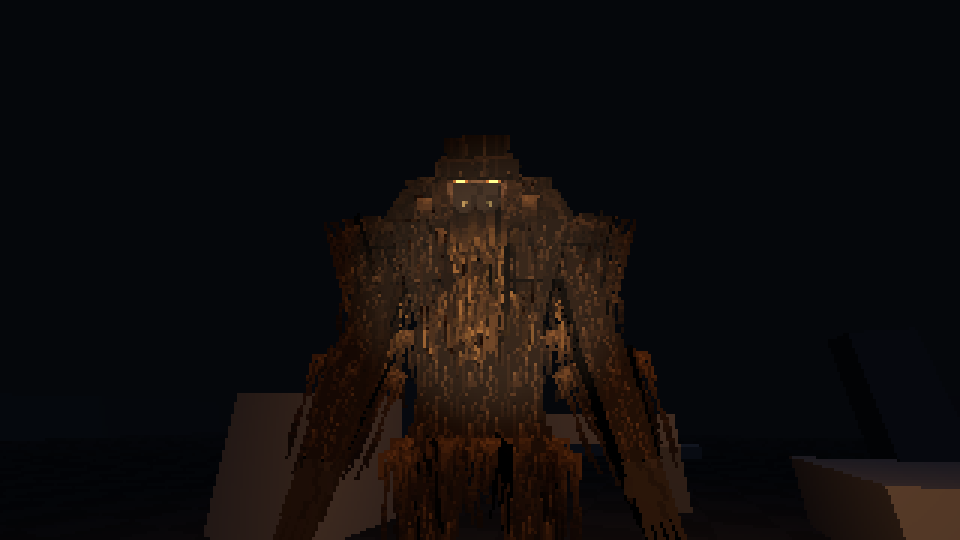
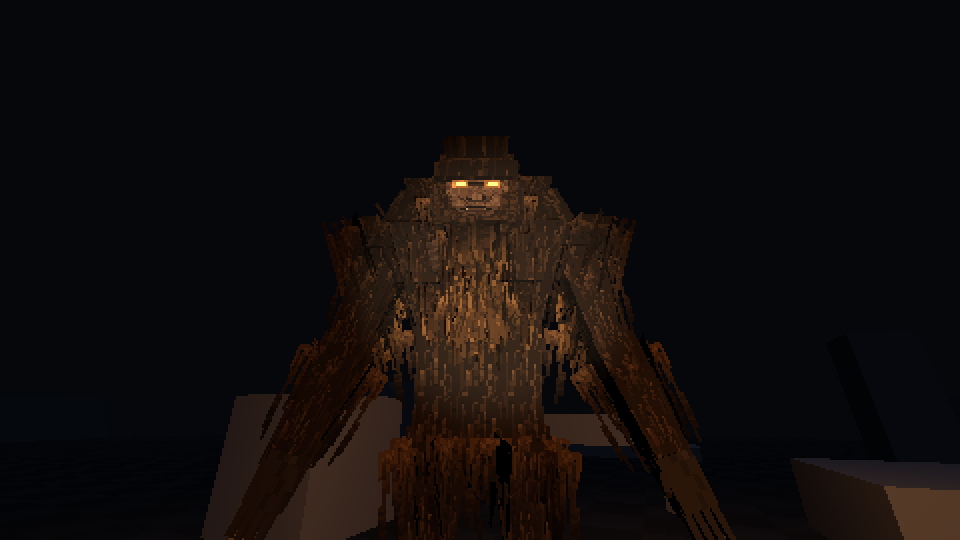
#56 Bigfoot pass 2: even bigger, more detailed, scarier (#52)
* #56 pass 2: torn ear, broken fang, rib/scar patches, matted debris, longer claws, wider jaw

Claude-Session: https://claude.ai/code/session_0163yRzHGRraga61EFxbLany

* #56 PR link

Claude-Session: https://claude.ai/code/session_0163yRzHGRraga61EFxbLany

---------

diff --git a/src/cryptids/bigfootModel.js b/src/cryptids/bigfootModel.js
@@ -1,7 +1,7 @@
 import * as THREE from 'three';
 import { mergeGeometries } from 'three/examples/jsm/utils/BufferGeometryUtils.js';
 import {
-  pixelMaterial, furTexture, skinTexture, furFringeTexture, bigfootScowlTexture, longHairTexture,
+  pixelMaterial, furTexture, skinTexture, furFringeTexture, bigfootScowlTexture, longHairTexture, ribScarTexture,
 } from '../art/pixelTex.js';
 
 // Bigfoot (final, #42): a big, hunched, menacing low-poly body (~3.4 m tall standing, shoulders
@@ -53,6 +53,10 @@ export function buildBigfootModel(profile) {
   const fringe = [0, 1].map((v) => pixelMaterial(furFringeTexture(v), { side: THREE.DoubleSide }));
   fringe.push(pixelMaterial(longHairTexture(), { side: THREE.DoubleSide }));   // variant 2: long mane
   const claw = new THREE.MeshStandardMaterial({ color: 0x8a7a58, roughness: 0.5, flatShading: true });
+  const ribScar = pixelMaterial(ribScarTexture(), { side: THREE.DoubleSide, flatShading: true });
+  const twig = new THREE.MeshStandardMaterial({ color: 0x3a2a1c, roughness: 1, flatShading: true });
+  const burr = new THREE.MeshStandardMaterial({ color: 0x5a4a22, roughness: 1, flatShading: true });
+  const deadLeaf = new THREE.MeshStandardMaterial({ color: 0x7a3e24, roughness: 1, side: THREE.DoubleSide });
   const tooth = new THREE.MeshStandardMaterial({ color: 0xb8a878, roughness: 0.4, flatShading: true });
   const mouth = new THREE.MeshBasicMaterial({ color: 0x0b0708 });
   // Eyeshine: two hot amber points that catch your torch from the dark.
@@ -103,6 +107,9 @@ export function buildBigfootModel(profile) {
   const chest = joint('chest', spine, 0, 0.42, 0);
   part('ribcage', chest, limbGeo(1.02, 0.56, 0.62, { taper: 0.7, taperD: 0.82, pivot: 'bottom' }), furDark, 0, 0, 0.02);
   for (const s of [-1, 1]) part(`pec${s}`, chest, limbGeo(0.36, 0.26, 0.12, { taper: 0.85, pivot: 'center' }), fur, s * 0.2, 0.34, FWD * 0.29);
+  // Worn bare patches: ribs and sinew showing through, raked with old claw scars (left flank, right chest).
+  part('ribsL', chest, new THREE.PlaneGeometry(0.34, 0.34), ribScar, -0.45, 0.22, FWD * 0.1).rotation.set(0, -Math.PI / 2 - 0.35, 0);
+  part('scarChest', chest, new THREE.PlaneGeometry(0.24, 0.24), ribScar, 0.17, 0.36, FWD * 0.352).rotation.set(0, Math.PI, 0.3);
   part('hump', chest, limbGeo(0.98, 0.38, 0.48, { taper: 1.35, pivot: 'bottom' }), furDark, 0, 0.44, 0.12);   // massive trapezius
   for (const s of [-1, 1]) part(`trap${s}`, chest, limbGeo(0.3, 0.3, 0.36, { taper: 0.6, pivot: 'bottom' }), furDark, s * 0.32, 0.6, 0.06);   // the head sinks between them
   shag(chest, 0.74, 0.34, ring(7, -Math.PI * 0.45, Math.PI * 0.45), 0.3, 0.55, { variant: 1, tilt: 0.45 });     // mane down the back
@@ -127,13 +134,16 @@ export function buildBigfootModel(profile) {
   part('brow', head, limbGeo(0.44, 0.09, 0.12, { pivot: 'center' }), furDark, 0, 0.28, FWD * 0.2);         // heavy brow shelf
   part('cheekL', head, limbGeo(0.06, 0.16, 0.08, { pivot: 'center' }), furDark, -0.22, 0.15, FWD * 0.17);
   part('cheekR', head, limbGeo(0.06, 0.16, 0.08, { pivot: 'center' }), furDark, 0.22, 0.15, FWD * 0.17);
+  // Ears: small, leathery, set back; the left one torn ragged (a chunk missing from the top).
+  part('earR', head, limbGeo(0.04, 0.11, 0.08, { taper: 0.7, pivot: 'bottom', ppm: 2 }), skin, 0.235, 0.2, FWD * 0.02).rotation.z = -0.3;
+  part('earL', head, limbGeo(0.04, 0.06, 0.08, { taper: 1.3, pivot: 'bottom', ppm: 2 }), skin, -0.235, 0.2, FWD * 0.02).rotation.z = 0.25;
   for (const x of [-0.085, 0.085]) {
     part(`eye${x}`, head, new THREE.BoxGeometry(0.05, 0.028, 0.01), eyeMat, x, 0.215, FWD * 0.212, { shadow: false });
     part(`eyeGlow${x}`, head, new THREE.PlaneGeometry(0.085, 0.06), glowMat, x, 0.215, FWD * 0.22, { shadow: false }).rotation.y = Math.PI;
   }
   // Chin: the scowl, nose, mouth and fangs are painted into the face texture (reads at pixel scale).
   const jaw = joint('jaw', head, 0, 0.02, FWD * 0.05);   // heavy chin under the painted face (nose, mouth, fangs are in the texture)
-  part('jawMesh', jaw, limbGeo(0.3, 0.1, 0.26, { taper: 0.85, pivot: 'top', ppm: 2 }), fur, 0, 0, 0);
+  part('jawMesh', jaw, limbGeo(0.38, 0.12, 0.28, { taper: 0.8, pivot: 'top', ppm: 2 }), fur, 0, 0, 0);   // wide, heavy jaw
   shag(head, 0.4, 0.24, ring(8, -Math.PI * 0.55, Math.PI * 0.55), 0.2, 0.4, { variant: 1, tilt: 0.4 });   // mane framing the face
   // Long hair pouring from the crown over the shoulders and down the back.
   shag(head, 0.44, 0.2, ring(7, -Math.PI * 0.5, Math.PI * 0.5), 0.26, 0.95, { variant: 2, tilt: 0.35 });
@@ -161,7 +171,7 @@ export function buildBigfootModel(profile) {
       const fx = (f - 1.5) * 0.042;
       const finger = joint(`finger${side}${f}`, hand, fx, -0.22, FWD * 0.02);
       part(`fingerMesh${side}${f}`, finger, limbGeo(0.035, 0.14, 0.04, { taper: 0.7, ppm: 2 }), skin, 0, 0, 0);
-      const c = part(`claw${side}${f}`, finger, new THREE.ConeGeometry(0.016, 0.12, 4), claw, 0, -0.18, FWD * 0.01, { shadow: false });
+      const c = part(`claw${side}${f}`, finger, new THREE.ConeGeometry(0.017, 0.17, 4), claw, 0, -0.2, FWD * 0.01, { shadow: false });
       c.rotation.x = Math.PI + 0.5;
       finger.rotation.x = 0.35;     // curled forward
     }
@@ -181,10 +191,21 @@ export function buildBigfootModel(profile) {
     const foot = joint(`foot${side}`, shin, 0, -0.46, 0);
     part(`footMesh${side}`, foot, limbGeo(0.22, 0.1, 0.46, { taper: 1, pivot: 'top', ppm: 2 }), skin, 0, 0, FWD * 0.12);
     for (let t = 0; t < 4; t++) {
-      const c = part(`toeClaw${side}${t}`, foot, new THREE.ConeGeometry(0.02, 0.1, 4), claw, (t - 1.5) * 0.05, -0.08, FWD * 0.38, { shadow: false });
+      const c = part(`toeClaw${side}${t}`, foot, new THREE.ConeGeometry(0.022, 0.14, 4), claw, (t - 1.5) * 0.05, -0.08, FWD * 0.4, { shadow: false });
       c.rotation.x = -Math.PI / 2 - 0.3;
     }
   }
+
+  // Debris matted into the fur: twigs, burrs and dead leaves on the shoulders, back and mane.
+  const stuck = [[bones.chest, 0.3, 0.66, 0.2], [bones.chest, -0.36, 0.6, 0.24], [bones.chest, 0.05, 0.7, 0.32],
+    [bones.chest, -0.15, 0.45, 0.34], [bones.head, 0.12, 0.42, 0.15], [bones.head, -0.16, 0.36, 0.12],
+    [bones.shoulderL, 0, 0.22, 0.1], [bones.shoulderR, 0, 0.2, -0.05], [bones.spine, 0.25, 0.3, 0.3]];
+  stuck.forEach(([parent, x, y, z], i) => {
+    const t = part(`twig${i}`, parent, new THREE.BoxGeometry(0.02, 0.02, 0.22 + (i % 3) * 0.08), twig, x, y, z, { shadow: false });
+    t.rotation.set(0.6 * ((i % 2) * 2 - 1), i * 1.3, 0.4);
+    part(`burr${i}`, parent, new THREE.IcosahedronGeometry(0.025, 0), burr, x + 0.04, y - 0.05, z + 0.02, { shadow: false });
+    if (i % 2 === 0) part(`leaf${i}`, parent, new THREE.PlaneGeometry(0.07, 0.05), deadLeaf, x - 0.05, y + 0.02, z + 0.03, { shadow: false }).rotation.set(0.4, i, 0.7);
+  });
 
   // An invisible proxy keeps the AI's state tinting (debug readout) off the textured body.
   const proxy = new THREE.Mesh(new THREE.BoxGeometry(0.01, 0.01, 0.01), new THREE.MeshBasicMaterial({ visible: false }));

diff --git a/src/art/pixelTex.js b/src/art/pixelTex.js
@@ -410,7 +410,8 @@ export function bigfootScowlTexture() {
     // Snout folds down to a heavy, downturned mouth; fang tips just showing.
     for (let k = 0; k < 4; k++) { px(9 + k, 20 + k, sk[1]); px(22 - k, 20 + k, sk[1]); }
     for (let x = 10; x < 22; x++) px(x, 25 + (x < 12 || x > 19 ? 1 : 0), '#0b0708');
-    for (const fx of [12, 19]) { px(fx, 26, '#c9b98a'); px(fx, 27, '#a89466'); }
+    px(12, 26, '#c9b98a'); px(12, 27, '#a89466'); px(12, 28, '#7d6c48');   // long left fang
+    px(19, 26, '#7d6c48');                                                     // right fang snapped off
     for (let x = 11; x < 21; x++) px(x, 27, sk[1]);
     // Beard and cheek hair creeping onto the face edges.
     for (let y = 18; y < 32; y++) for (const x of [5, 6, 25, 26]) if (r() < 0.7) px(x, y, fur[2 + Math.floor(r() * 2)]);
@@ -418,6 +419,7 @@ export function bigfootScowlTexture() {
     // Old scars across the left brow and cheek.
     for (let k = 0; k < 7; k++) px(6 + k, 9 + k, '#5a3a32');
     for (let k = 0; k < 4; k++) px(22 + k, 18 + k, '#5a3a32');
+    for (let k = 0; k < 5; k++) px(13 + k, 19 - (k >> 1), '#6a463c');                          // scar across the nose
   }, { seed: 171 });
 }
 
@@ -439,4 +441,26 @@ export function longHairTexture() {
       }
     }
   }, { seed: 181, alpha: true });
+}
+
+// Bare, scarred patch where the fur has worn thin (#56): grey-brown hide with rib bands showing
+// through and three parallel claw scars, ragged fur edges. 32 x 32, alpha-cut edges.
+export function ribScarTexture() {
+  return pixelTexture('ribScar', 32, 32, (g, px, r, w, h) => {
+    const sk = ['#1c1210', '#2e2019', '#3e2d24', '#4f3b2f', '#614a3b'];
+    const fur = ['#140d09', '#22160e', '#342215'];
+    for (let y = 0; y < h; y++) for (let x = 0; x < w; x++) {
+      const dx = (x - 15.5) / 15, dy = (y - 15.5) / 15, d = Math.sqrt(dx * dx + dy * dy) + (r() - 0.5) * 0.25;
+      if (d > 1) continue;                                                // transparent outside the patch
+      if (d > 0.82) { px(x, y, fur[Math.floor(r() * 3)]); continue; }      // ragged fur rim
+      px(x, y, sk[2 + (r() < 0.3 ? 1 : 0) - (r() < 0.2 ? 1 : 0)]);
+    }
+    // Ribs: curved bands, lit above, shadowed below.
+    for (let k = 0; k < 4; k++) for (let x = 4; x < 28; x++) {
+      const y = 6 + k * 6 + Math.round(Math.sin((x / 32) * Math.PI) * -2);
+      px(x, y, sk[4]); px(x, y + 1, sk[3]); px(x, y + 2, sk[0]);
+    }
+    // Three claw scars raked diagonally across, pale and raised.
+    for (let s = 0; s < 3; s++) for (let k = 0; k < 18; k++) { px(9 + s * 4 + Math.floor(k / 2), 5 + k, '#7a5a4a'); px(10 + s * 4 + Math.floor(k / 2), 5 + k, '#4a2e26'); }
+  }, { seed: 191, alpha: true });
 }

diff --git a/.ballast/reports/t56.md b/.ballast/reports/t56.md
@@ -1,15 +1,12 @@
 STATUS: DONE
-- Bigfoot is bigger again: about 4.2 m to the top of his head (was 3.4), shoulders about 1.6 m across. His head now sinks between a massive hunched trapezius, so he looms down at you.
-- New face, modelled on your scary-face reference: a bare tan face with a deeply furrowed, scowling V-shaped brow pressing down on sunken eyes that burn amber, with a glow around each eye so they read from far off in the dark. Also a broad flat nose, a heavy downturned mouth with fang tips showing, and old scars on the brow and cheek.
-- More fur and detail: long hair pours from his crown and shoulders down his back and over his chest, with a beard, the earlier shaggy clumps on every limb (about 130 in total), and longer claws on his hands and feet.
-- His game size was matched: taller body for catching and photos, slightly wider collision, which still fits through the forest (the forest walk and Bigfoot pathing checks pass). Footprints are now 70 cm and claw marks sit high on the trunks. Model, clue trail, catching, hunt loop and behaviour checks all pass; idle, walk and run still blend by speed.
-- To see it: `npm run dev`, open with `?map=forest`, find Bigfoot and put your torch on him. Captures in `.ballast/media/t56/`: an eye-level portrait of the face, a turnaround in the forest at night at 6 m, views at 25 m, a three-quarter view looking up, and walk/run/idle GIFs.
-- Compared against the Bigfoot face reference: same reading of a scowling, ape-like face with burning eyes and a hair-framed head, rendered as chunky pixel art rather than realistic fur. At player height you mostly see him from below, as a looming mass with burning eyes; the full face shows best when you're level with it or he leans in.
-- PR: https://github.com/nsmith-gd/cryptidhunter/pull/47
-
-## Questions
-### Is a scowl scarier than an open snarl?
-Context: Following your face reference, Bigfoot now scowls (furrowed brow, burning eyes, mouth mostly shut with fang tips). Last round he had an open snarling mouth. From below, at player height, you mostly see the brow and the two burning eyes.
-Options: - Scowl (current, like the reference: brooding, watchful) - Open snarl when he spots you (mouth gapes, fangs bared, as he charges) - Both: scowl while watching, snarl when he turns on you
-Going with: the scowl, matching the reference; the snarl-on-charge combination is a quick follow-up if you want it.
-Capture: portrait-face-eye-level.png
+- Bigfoot pass 2, scarier detail on top of the earlier rebuild (he was already about 4.2 m, at the top of the 3.8–4 m ask, with his game size, catch and photo body, collision, footprints and claw-mark heights matched; the forest pathing check passed at that size):
+  - A torn left ear (ragged and missing its top) and a right ear set back on the skull.
+  - The right fang is snapped off while the left is long, plus a new scar across the nose on top of the brow and cheek scars.
+  - Bare worn patches where the fur has thinned: ribs and sinew show through on his flank, and three pale claw scars are raked across his chest.
+  - Debris matted into the fur: twigs, burrs and dead leaves on his shoulders, back and mane.
+  - Longer, sharper claws (hand claws about 26 cm at his size) and a wider, heavier jaw.
+- The face follows the director's Bigfoot face reference (in the quality targets): a scowling, ape-like face with burning amber eyes framed by a long mane.
+- Idle, walk, run and the new knock, flee and investigate animations all still play; the model, catching, clue-trail and animation checks pass.
+- Before/after: `.ballast/media/t56/` files starting before-pass2- are the previous look; the unprefixed files are the new one (eye-level face portrait, forest turnaround at 6 m, 25 m views, three-quarter from below, walk/run/idle GIFs).
+- To see it: `npm run dev`, open with `?map=forest`, find Bigfoot and light him up.
+- PR: https://github.com/nsmith-gd/cryptidhunter/pull/52
